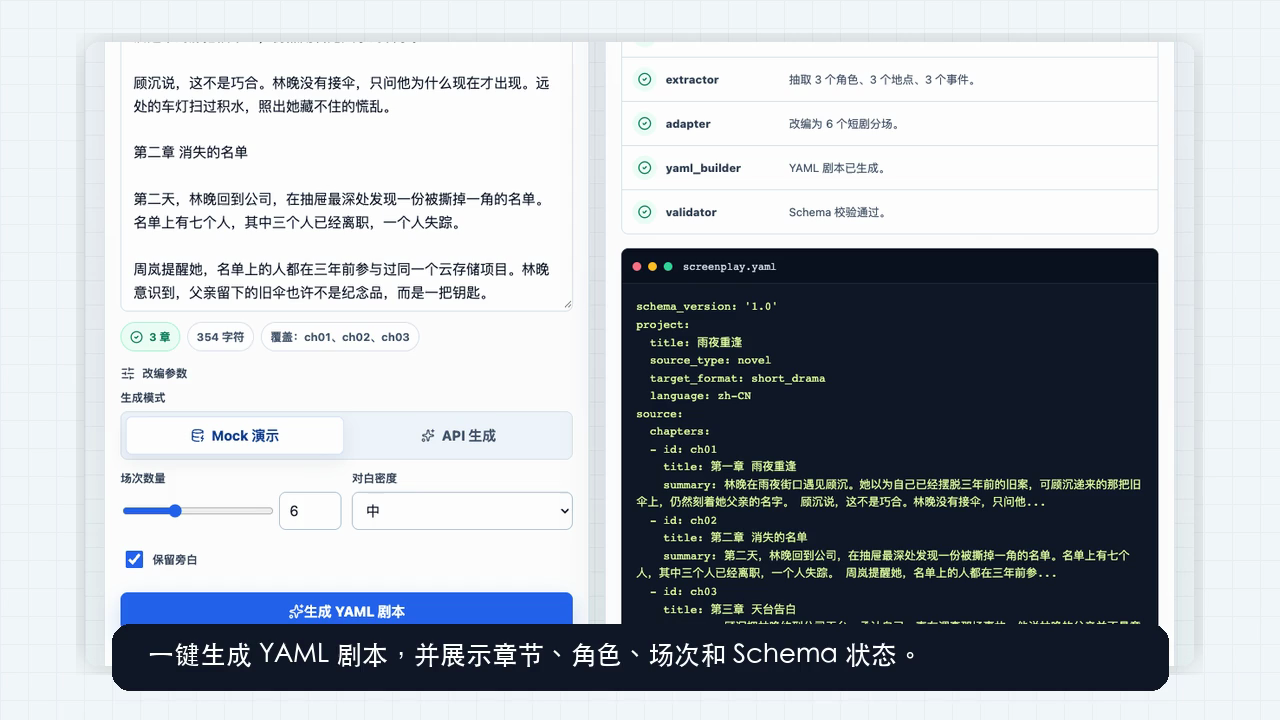
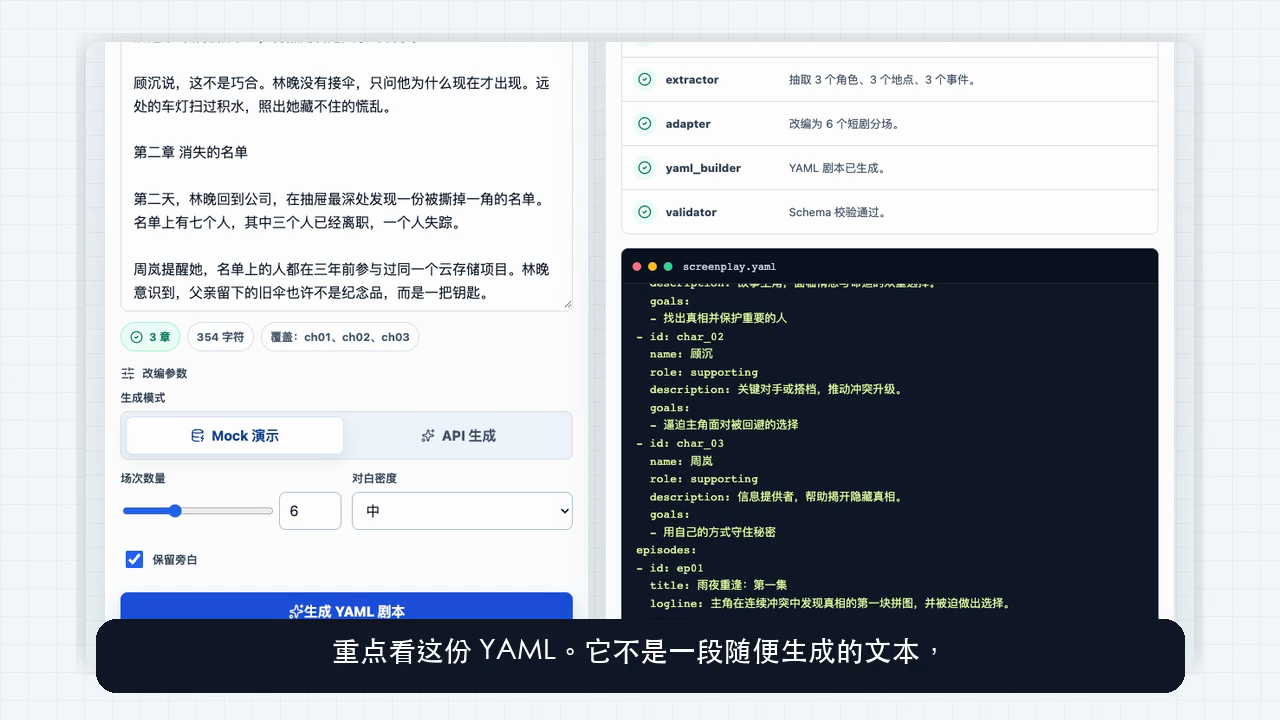
docs: improve narrated demo subtitles

diff --git a/artifacts/make_demo_video.py b/artifacts/make_demo_video.py
@@ -22,6 +22,8 @@ NARRATION_DIR = ROOT / "artifacts" / "narration"
 
 W, H = 1280, 720
 FPS = 24
+VOICE = "Sandy (中文（中国大陆）)"
+SAY_RATE = "178"
 
 FONT_REGULAR = "/System/Library/Fonts/STHeiti Light.ttc"
 FONT_BOLD = "/System/Library/Fonts/STHeiti Medium.ttc"
@@ -57,6 +59,76 @@ def draw_wrapped(draw: ImageDraw.ImageDraw, text: str, xy: tuple[int, int], fnt,
         bbox = draw.textbbox((x, y), line, font=fnt)
         y += bbox[3] - bbox[1] + line_gap
     return y
+
+
+def wrap_cjk(text: str, max_chars: int) -> list[str]:
+    lines: list[str] = []
+    remaining = text
+    while remaining:
+        lines.append(remaining[:max_chars])
+        remaining = remaining[max_chars:]
+    return lines
+
+
+def split_subtitles(text: str, max_chars: int = 30) -> list[str]:
+    chunks: list[str] = []
+    current = ""
+    for char in text:
+        current += char
+        if char in "。！？；，：":
+            chunks.append(current.strip())
+            current = ""
+    if current.strip():
+        chunks.append(current.strip())
+
+    merged: list[str] = []
+    buffer = ""
+    for chunk in chunks:
+        if not buffer:
+            buffer = chunk
+        elif len(buffer) + len(chunk) <= max_chars:
+            buffer += chunk
+        else:
+            merged.append(buffer)
+            buffer = chunk
+    if buffer:
+        merged.append(buffer)
+    return merged
+
+
+def subtitle_for(scene: dict, elapsed: float, duration: float) -> str:
+    chunks = scene["subtitle_chunks"]
+    if not chunks:
+        return ""
+    weights = [max(1, len(chunk)) for chunk in chunks]
+    total = sum(weights)
+    cursor = 0.0
+    for chunk, weight in zip(chunks, weights):
+        span = duration * weight / total
+        if elapsed <= cursor + span:
+            return chunk
+        cursor += span
+    return chunks[-1]
+
+
+def draw_subtitle(image: Image.Image, text: str) -> Image.Image:
+    if not text:
+        return image
+    img = image.convert("RGBA")
+    draw = ImageDraw.Draw(img)
+    lines = wrap_cjk(text, 30)[:2]
+    subtitle_font = font(28, bold=True)
+    line_height = 39
+    box_h = 34 + line_height * len(lines)
+    box = (96, H - box_h - 28, W - 96, H - 28)
+    rounded_rect(draw, box, (17, 24, 39, 232), None, 1, 20)
+    y = box[1] + 17
+    for line in lines:
+        bbox = draw.textbbox((0, 0), line, font=subtitle_font)
+        x = (W - (bbox[2] - bbox[0])) // 2
+        draw.text((x, y), line, font=subtitle_font, fill="#ffffff")
+        y += line_height
+    return img.convert("RGB")
 
 
 def slide(title: str, subtitle: str, bullets: list[str], kicker: str = "ScriptForge AI") -> Image.Image:
@@ -105,7 +177,7 @@ def architecture_slide() -> Image.Image:
     return img
 
 
-def screenshot_scene(path: str, caption: str) -> Image.Image:
+def screenshot_scene(path: str) -> Image.Image:
     shot = Image.open(ASSET_DIR / path).convert("RGB")
     shot.thumbnail((W - 96, H - 96), Image.Resampling.LANCZOS)
     img = base_background().convert("RGBA")
@@ -121,9 +193,6 @@ def screenshot_scene(path: str, caption: str) -> Image.Image:
     md.rounded_rectangle((0, 0, shot.width, shot.height), radius=14, fill=255)
     img.paste(shot, (x, y), mask)
 
-    draw = ImageDraw.Draw(img)
-    rounded_rect(draw, (112, 624, 1168, 690), (17, 24, 39, 226), None, 1, 18)
-    draw.text((148, 641), caption, font=font(26, bold=True), fill="#ffffff")
     return img.convert("RGB")
 
 
@@ -157,7 +226,7 @@ def make_narration(scenes: list[dict]) -> list[float]:
         wav = NARRATION_DIR / f"{index:02d}.wav"
         padded = NARRATION_DIR / f"{index:02d}-padded.wav"
 
-        subprocess.run(["say", "-v", "Tingting", "-r", "168", "-o", str(aiff), text], check=True)
+        subprocess.run(["say", "-v", VOICE, "-r", SAY_RATE, "-o", str(aiff), text], check=True)
         subprocess.run(["afconvert", str(aiff), str(wav), "-f", "WAVE", "-d", "LEI16"], check=True)
 
         duration = max(scene.get("min_duration", 0), wav_duration(wav) + 0.55)
@@ -237,10 +306,13 @@ def encode_video(scenes: list[dict], durations: list[float]) -> None:
             for i in range(fade_frames):
                 alpha = (i + 1) / fade_frames
                 mixed = Image.blend(previous, image, alpha)
-                mixed.save(proc.stdin, format="PNG")
+                subtitle = subtitle_for(scene, i / FPS, duration)
+                draw_subtitle(mixed, subtitle).save(proc.stdin, format="PNG")
             frame_count -= fade_frames
-        for _ in range(max(1, frame_count)):
-            image.save(proc.stdin, format="PNG")
+        for frame_index in range(max(1, frame_count)):
+            elapsed = (frame_index + fade_frames) / FPS
+            subtitle = subtitle_for(scene, elapsed, duration)
+            draw_subtitle(image, subtitle).save(proc.stdin, format="PNG")
         previous = image
 
     proc.stdin.close()
@@ -281,7 +353,7 @@ def main() -> None:
                 "把中文小说快速改编成可编辑的短剧 YAML 初稿。",
                 ["面向小说作者和 IP 改编场景", "从章节解析到剧本结构化输出", "内置 mock 演示，评审现场无需 API Key"],
             ),
-            "narration": "大家好，这个项目叫 ScriptForge AI，是一款 AI 小说转剧本工具。它面向小说作者和 IP 改编场景，目标不是再做一个泛泛的聊天写作助手，而是把三章以上的小说文本，快速转换成可编辑、可校验、可继续打磨的短剧剧本 YAML 初稿。",
+            "narration": "大家好，我来介绍一下 ScriptForge AI。它是一个 AI 小说转剧本工具，目标很直接：把三章以上的小说文本，快速整理成一份能继续编辑、能校验格式、也方便二次打磨的短剧剧本 YAML 初稿。",
             "min_duration": 10.0,
         },
         {
@@ -291,27 +363,27 @@ def main() -> None:
                 ["传统改编门槛高：章节、角色、事件、对白需要重新拆解", "通用聊天工具输出松散：难以稳定进入后续工作流", "YAML + Schema 让初稿可编辑、可校验、可二次加工"],
                 "Product Value",
             ),
-            "narration": "小说改剧本的难点在于，它不是简单摘要。作者需要重新拆章节、提取角色关系、把叙事段落改成可拍摄的场景，并且要为短剧加入持续追看的钩子。通用大模型可以给出一段文本，但很难稳定进入工程化流程。所以这个项目选择 YAML 加 Schema，把剧本初稿变成结构化数据。",
+            "narration": "为什么要做这个工具？因为小说改剧本不只是总结剧情。作者要重新拆章节、整理角色关系，把叙述改成能拍的场景，还要补上短剧需要的追看钩子。通用聊天工具经常输出一整段文字，看起来能用，但后续很难编辑和校验。所以这里用 YAML 加 Schema，把初稿变成结构化数据。",
             "min_duration": 13.0,
         },
         {
-            "image": screenshot_scene("01-home.png", "现代化创作工作台：输入小说、调整参数、准备生成。"),
-            "narration": "这是前端工作台。左侧是小说输入区和改编参数，右侧是剧本输出区。用户可以选择 mock 演示或真实 API 生成，设置目标场次数量、对白密度，并决定是否保留旁白。界面重点放在创作操作本身，而不是做成营销页。",
+            "image": screenshot_scene("01-home.png"),
+            "narration": "先看界面。这个页面不是落地页，而是一个创作工作台。左边放小说原文和改编参数，右边放生成结果。用户可以选择 mock 演示，也可以切到 API 生成；还可以设置场次数量、对白密度，以及要不要保留旁白。",
             "min_duration": 11.0,
         },
         {
-            "image": screenshot_scene("02-sample-loaded.png", "载入 3 章样例后，系统自动识别章节数和覆盖范围。"),
-            "narration": "点击载入样例后，系统会把三章小说放入编辑器，并自动识别章节数量。这里可以看到章节状态已经达标，同时字数和覆盖章节也会即时更新。这个反馈很重要，因为题目要求至少三个章节，前端和后端都会围绕这个约束给出明确提示。",
+            "image": screenshot_scene("02-sample-loaded.png"),
+            "narration": "我点击载入样例。系统会把三章小说放进编辑器，并立刻识别章节数量。这里可以看到已经识别到三章，字数和覆盖范围也同步更新。这个反馈对作者很有用，因为他在生成之前就知道输入是否符合要求。",
             "min_duration": 12.0,
         },
         {
-            "image": screenshot_scene("03-generated.png", "一键生成 YAML 剧本，并展示章节、角色、场次和 Schema 状态。"),
-            "narration": "点击生成后，后端会按流水线解析章节、抽取角色和地点、改编为短剧分场，再生成 YAML 并执行 Schema 校验。生成完成后，右侧展示章节数、角色数、场次数和 Schema 是否通过。下面的阶段日志可以帮助评审和开发者理解每一步是否成功。",
+            "image": screenshot_scene("03-generated.png"),
+            "narration": "现在点生成。后端会先解析章节，再抽取角色、地点和事件，然后改编成短剧分场，最后生成 YAML 并做 Schema 校验。生成完成以后，右侧会显示章节数、角色数、场次数，以及 Schema 是否通过。下面的阶段日志也能看到每一步做了什么。",
             "min_duration": 14.0,
         },
         {
-            "image": screenshot_scene("04-yaml-detail.png", "YAML 中保留 source_chapters、adaptation_note 和 hook，方便继续打磨。"),
-            "narration": "生成结果不是一段不可控的长文本，而是一份结构化 YAML。每个场景都会保留 source_chapters，说明它来自哪些原文章节；adaptation_note 记录这一场的改编取舍；hook 则强调短剧结尾的追看点。这些字段让作者可以快速审阅、修改和二次创作。",
+            "image": screenshot_scene("04-yaml-detail.png"),
+            "narration": "重点看这份 YAML。它不是一段随便生成的文本，而是按剧本结构组织好的数据。每个场景都有 source_chapters，可以追溯到原小说章节；adaptation_note 会说明这一场为什么这样改；hook 则帮助作者保留短剧的追看点。",
             "min_duration": 14.0,
         },
         {
@@ -321,12 +393,12 @@ def main() -> None:
                 ["少于 3 章时返回明确错误和修复建议", "mock provider 保证无 API Key 环境也能演示", "API provider 支持接入 OpenAI-compatible 服务"],
                 "Reliability",
             ),
-            "narration": "为了保证评审现场稳定，项目内置了 mock provider，所以即使没有配置 API Key，也可以完整演示从小说到剧本的流程。真实模型接入则通过 OpenAI compatible 的 API provider 完成。对于输入不足三章的情况，后端会返回结构化错误，前端会展示可操作的修复建议。",
+            "narration": "我也做了演示稳定性的兜底。评审现场如果没有 API Key，mock provider 也能完整跑通流程。以后要接真实模型，就切到 OpenAI compatible 的 API provider。输入不足三章时，后端会返回明确错误，前端也会告诉用户怎么修。",
             "min_duration": 13.0,
         },
         {
             "image": architecture_slide(),
-            "narration": "工程结构上，后端采用清晰的 FastAPI 分层。API 路由只负责 HTTP 输入输出，service 作为用例入口，pipeline 负责核心转换。流水线依次是 chapter parser、provider、adapter、yaml builder 和 validator。这样每个模块职责清楚，也方便用 pytest 做验证。",
+            "narration": "工程上没有把逻辑堆在一个大文件里。后端是 FastAPI 分层：路由处理 HTTP，service 作为用例入口，pipeline 负责核心转换。流水线从章节解析开始，经过 provider 分析，再做剧本改编、YAML 构建和 Schema 校验。这样的结构更好维护，也更容易测试。",
             "min_duration": 13.0,
         },
         {
@@ -336,15 +408,17 @@ def main() -> None:
                 ["source_chapters：每场戏可以追溯到原小说章节", "adaptation_note：记录改编取舍，便于作者复核", "validation：前端直接展示 Schema 校验结果"],
                 "YAML Schema",
             ),
-            "narration": "Schema 的设计重点，是把剧本拆成项目、来源章节、角色、集、场和剧本元素。这样做的原因有三个。第一，来源可追踪，作者知道每场戏来自哪里。第二，结构可编辑，后续可以接入编辑器、导出器或协作工具。第三，输出可校验，避免 AI 生成内容缺字段或格式漂移。",
+            "narration": "Schema 的设计也不是为了形式感。它把剧本拆成项目、来源章节、角色、集、场和剧本元素。这样作者能追踪来源，工具能继续编辑，系统也能检查字段是否完整。换句话说，它让 AI 输出从一段文字，变成可以进入工作流的数据。",
             "min_duration": 13.0,
         },
         {
             "image": closing_slide(),
-            "narration": "总结一下，ScriptForge AI 满足题目要求，可以把三章以上小说转换为结构化 YAML 剧本。它有完整的 Vue 前端、FastAPI 后端、uv 依赖管理、Schema 文档、测试和 GitHub 提交记录。核心创新点是来源追踪、改编说明、短剧钩子和自动 Schema 校验。",
+            "narration": "最后总结一下。ScriptForge AI 满足题目要求，可以把三章以上小说转换为结构化 YAML 剧本。它有 Vue 前端、FastAPI 后端、uv 依赖管理、Schema 文档、测试和 GitHub 提交记录。比较重要的亮点，是来源追踪、改编说明、短剧钩子，以及自动 Schema 校验。",
             "min_duration": 12.0,
         },
     ]
+    for scene in scenes:
+        scene["subtitle_chunks"] = split_subtitles(scene["narration"])
     durations = make_narration(scenes)
     encode_video(scenes, durations)
     print(OUTPUT)